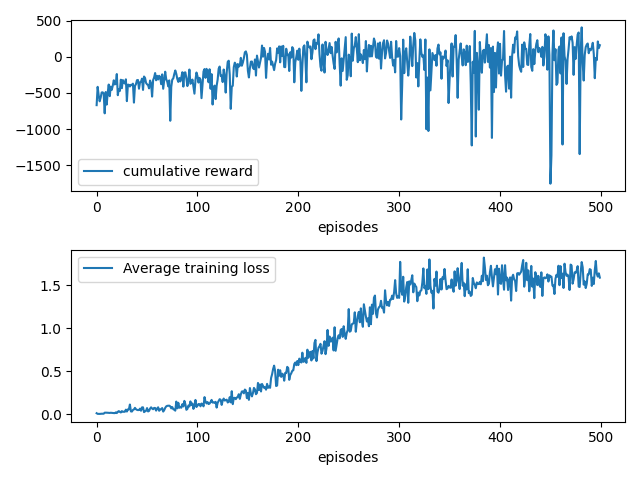
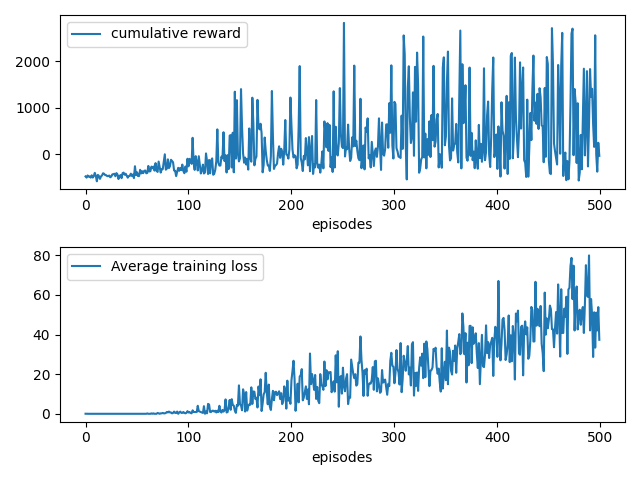
our majesty decided to eat !

diff --git a/gym-ants/gym_ants/helpers/Instance.py b/gym-ants/gym_ants/helpers/Instance.py
@@ -5,6 +5,7 @@ from gym_ants.environment.Obstacle import Obstacle
 import random
 import numpy as np
 import pygame as pg
+from gym_ants.helpers.util import aColideWithB,lineColideWithCircle,calcDistanceBetweenTwoPoint,calcAngle
 
 from copy import deepcopy
 
@@ -113,7 +114,8 @@ class Instance(object):
             if fourmi.health > 0:
                 # food = self.dish.grasses + self.deadBodies
                 food = self.dish.grasses
-                fourmi.eat(food)
+                # fourmi.eat(food)
+                fourmi.carryFood(food)
                 for antHill in self.dish.antHills:
                     if antHill.colonieId == fourmi.colonieId:
                         fourmiAntHill = antHill
@@ -198,6 +200,21 @@ class Instance(object):
 
         return [-1,-1]
 
+    def getQueenCoordinate(self,cell):
+        queen = self.getQueen(cell)
+        return queen.coordinate
+
+
+
+    def getQueenDistance(self,cell,):
+        minDist = np.sqrt(self.maxX ** 2 + self.maxY ** 2)
+        queen = self.getQueen(cell)
+        return calcDistanceBetweenTwoPoint(cell.coordinate,queen.coordinate)
+
+
+        return minDist
+
+
     def closestFood(self,cell):
         minDist = np.sqrt(self.maxX**2 + self.maxY**2)
         if len(cell.objectInVisionDistance)>0:
@@ -225,15 +242,30 @@ class Instance(object):
 
         return -self.closestFood(cell)/minDist
 
+    def getQueen(self,cell):
+        for fourmi in self.fourmis:
+            if fourmi.colonieId == cell.colonieId and fourmi.type == FourmiType.REINE:
+                return fourmi
+
+    def getQueenReward(self,cell):
+        queen = self.getQueen(cell)
+        if queen.hasEaten:
+            return 200
+        else:
+            return 0
+
     def _get_reward(self, cell):
         minDist = np.sqrt(self.maxX ** 2 + self.maxY ** 2)
         eaten = 0
+        distanceQueenReward = 0
+        if cell.foodCarried!=None:
+            distanceQueenReward = self.getQueenDistance(cell)/minDist
         if cell.hasEaten:
-            eaten=  10
+            eaten =  50
         hit = 0
         if cell.isHit:
             hit = -1
-        reward = eaten + hit +self.calcDistanceReward(cell)
+        reward = eaten + hit + self.getQueenReward(cell) + distanceQueenReward + self.calcDistanceReward(cell)
         return reward
 
 
@@ -294,6 +326,9 @@ class Instance(object):
         obstacleCoordinate = self.getClosestObstacleCoordinate(cell)
         # return np.array([cell.coordinate[0], cell.coordinate[1], cell.health, self.closestFood(cell), self.closestObstacle(cell), self.closestEnemy(cell)])
         closestFoodCoordinate = self.getClosestFoodCoordinate(cell)
+        foodDistance = self.closestFood(cell)
+        queenCoordinate = self.getQueenCoordinate(cell)
+        queenDistance = self.getQueenDistance(cell)/np.sqrt(self.maxX ** 2 + self.maxY ** 2)
 
         enemyCoordinate = self.getClosestEnnemyCoordinate(cell)
         enemyDistance = self.closestEnemy(cell)/minDist
@@ -325,11 +360,28 @@ class Instance(object):
         else:
             hautEnemy = 0
 
+        if queenCoordinate[0] > cell.coordinate[0] +10:
+            droiteQueen=1
+        elif queenCoordinate[0] < cell.coordinate[0] -10:
+            droiteQueen = -1
+        else:
+            droiteQueen = 0
+
+        if queenCoordinate[1]> cell.coordinate[1]+10:
+            hautQueen = 1
+        elif queenCoordinate[1] < cell.coordinate[1] - 10:
+            hautQueen = -1
+        else:
+            hautQueen = 0
+
+        carryingFood = -1
+        if cell.foodCarried != None:
+            carryingFood = 1
 
 
         # return np.array([cell.coordinate[0], cell.coordinate[1],closestFoodCoordinate[0],closestFoodCoordinate[1]])
 
-        return np.array([droite,haut,droiteEnemy,hautEnemy,enemyDistance])
+        return np.array([droite,haut,hautQueen,droiteQueen,queenDistance,carryingFood])
 
 
 

diff --git a/gym-ants/gym_ants/species/Fourmi.py b/gym-ants/gym_ants/species/Fourmi.py
@@ -1,3 +1,5 @@
+import copy
+
 import numpy as np
 import pygame as pg
 from enum import Enum
@@ -124,8 +126,9 @@ class Fourmi(Species):
         for grass in grasses:
             C = grass.coordinate
             distance = calcDistanceBetweenTwoPoint(C, E)
-            self.objectInVisionRange.append(grass)
-            self.objectInVisionDistance.append(distance)
+            if not grass.isCarried:
+                self.objectInVisionRange.append(grass)
+                self.objectInVisionDistance.append(distance)
         for fourmi in fourmis:
             if fourmi.colonieId != self.colonieId:
                 C = fourmi.coordinate
@@ -173,22 +176,24 @@ class Fourmi(Species):
     def QeenEat(self, foods, anthill,fourmis):
         self.hasEaten = False
         if self.type == FourmiType.REINE:
-            for food in foods:
-                if aColideWithB(self.coordinate[0], self.coordinate[1],anthill.radius , food.coordinate[0],
-                                food.coordinate[1]) and self.hungriness > self.hungrinessThreshold :
-                    food.eaten()
-                    self.hasEaten = True
-                    self.health += self.bonusHealth
-                    self.death_age += self.bonusHealth
-                    self.nbAte += 1
-                    self.hungriness = 0
-                    for fourmi in fourmis:
-                        if fourmi.isEgg and fourmi.colonieId == self.colonieId:
-                            fourmi.hasEaten = True
-                            fourmi.health += fourmi.bonusHealth
-                            fourmi.death_age += fourmi.bonusHealth
-                            fourmi.nbAte += 1
-                            fourmi.hungriness = 0
+            for fourmi in fourmis:
+                if fourmi.foodCarried != None:
+                    if aColideWithB(self.coordinate[0], self.coordinate[1],anthill.radius , fourmi.foodCarried.coordinate[0],
+                                fourmi.foodCarried.coordinate[1]) :
+                        fourmi.foodCarried.eaten()
+                        fourmi.foodCarried = None
+                        self.hasEaten = True
+                        self.health += self.bonusHealth
+                        self.death_age += self.bonusHealth
+                        self.nbAte += 1
+                        self.hungriness = 0
+                    # for fourmi in fourmis:
+                    #     if fourmi.isEgg and fourmi.colonieId == self.colonieId:
+                    #         fourmi.hasEaten = True
+                    #         fourmi.health += fourmi.bonusHealth
+                    #         fourmi.death_age += fourmi.bonusHealth
+                    #         fourmi.nbAte += 1
+                    #         fourmi.hungriness = 0
 
         if not self.hasEaten:
             self.hungriness += 1
@@ -203,12 +208,19 @@ class Fourmi(Species):
 
 
     def carryFood(self, foods):
+        self.hasEaten = False
+        if self.foodCarried!=None:
+            self.foodCarried.coordinate = copy.deepcopy(self.coordinate)
+        if self.foodCarried!=None and self.foodCarried.isEaten:
+            self.foodCarried.isEaten = False
+            self.foodCarried = None
         for food in foods:
             if self.foodCarried!=None:
                 break
             if aColideWithB(self.coordinate[0], self.coordinate[1], self.radius, food.coordinate[0],
-                            food.coordinate[1]) :
+                            food.coordinate[1]) and not food.isCarried:
                 self.foodCarried = food
+                self.hasEaten = True
                 food.carried(self.coordinate[0],self.coordinate[1])
 
 

diff --git a/main_DQN.py b/main_DQN.py
@@ -158,7 +158,7 @@ def run(batch_size, gamma, buffer_size, seed, tau, training_interval, learning_r
     set_random_seed(environment, seed)
 
 
-    model = NNModel(5, 4)
+    model = NNModel(6, 4)
     nb_trajectories = 500
 
 
@@ -180,14 +180,16 @@ def run(batch_size, gamma, buffer_size, seed, tau, training_interval, learning_r
         step_count = 1
         mean_loss = []
         while not trajectory_done and step_count <600:
-            #environment.render()
+            environment.render()
             actions = []
             for s in states:
                 q_vals =target_agent.predict_on_batch(s.astype(np.float32)) 
                 actions.append(target_agent.get_action(q_vals, epsilon))
             next_states, rewards, trajectory_done, _ = environment.step(actions)
             G += np.sum(rewards)
-            for (s, a, r, next_s) in zip(states, actions, rewards, next_states):
+            actions = actions[1:]
+            rewards = rewards[1:]
+            for (s, a, r, next_s) in zip(states[1:,:], actions, rewards, next_states[1:,:]):
                 replay_buffer.store((s.astype(np.float32)  , a, r, next_s.astype(np.float32)  , trajectory_done))
 
             if len(replay_buffer.data) > batch_size :
@@ -209,7 +211,7 @@ def run(batch_size, gamma, buffer_size, seed, tau, training_interval, learning_r
             print(f"After {n_trajectories} trajectories, we have G_0 = {G:.2f}, loss {loss_mean}, epsilon  {epsilon:4f}")
         
 
-        epsilon = max(0.99*epsilon, 0.01)
+        epsilon = max(0.995*epsilon, 0.01)
         R_trajectories[n_trajectories] = G
         avg_training_loss[n_trajectories] = np.mean(np.array(mean_loss))
 

diff --git a/gym-ants/gym_ants/environment/Grass.py b/gym-ants/gym_ants/environment/Grass.py
@@ -1,6 +1,6 @@
 import pygame as pg
 import numpy as np
-
+import random
 class Grass:
     def __init__(self,x,y,radius,maxX,maxY):
         self.coordinate = np.array([x,y])
@@ -12,8 +12,23 @@ class Grass:
         self.color=pg.Color(0,255,0)
 
     def eaten(self):
-        self.isEaten = True
+        self.isEaten = False
         self.isCarried = False
+        r = random.random()
+        if r > 0.5:
+            r = random.random()
+            self.coordinate[0] = random.randint(0, self.maxX)
+            if r > 0.5:
+                self.coordinate[1] = random.randint(0, 100)
+            else:
+                self.coordinate[1] = random.randint(self.maxY - 100, self.maxY)
+        else:
+            r = random.random()
+            self.coordinate[1] = random.randint(0, self.maxY)
+            if r > 0.5:
+                self.coordinate[0] = random.randint(0, 100)
+            else:
+                self.coordinate[0] = random.randint(self.maxX - 100, self.maxX)
 
     def carried(self,x,y):
         self.isCarried = True

diff --git a/gym-ants/gym_ants/species/FourmieCreator.py b/gym-ants/gym_ants/species/FourmieCreator.py
@@ -27,7 +27,7 @@ class FourmieCreator(SpeciesCreator):
     def create(self,parent=None) :
 
         if (self.firstFourmiInColonie and parent == None):
-            type = FourmiType.OUVRIERE
+            type = FourmiType.REINE
             parent = None
         else :
             type = FourmiType.OUVRIERE
@@ -82,8 +82,8 @@ class FourmieCreator(SpeciesCreator):
             angle = 12
             dx = np.cos(angle)
             dy = np.sin(angle)
-            x = self.maxX -300+ random.randint(-100,100)
-            y = self.maxY -300+ random.randint(-100,100)
+            x = self.maxX/2 + random.randint(-100,100)
+            y = self.maxY/2+ random.randint(-100,100)
             r = parent.r
             g = parent.g
             b = parent.b

diff --git a/gym-ants/gym_ants/config/AntsEnvConfig.py b/gym-ants/gym_ants/config/AntsEnvConfig.py
@@ -1,6 +1,6 @@
 import numpy as np
 
-SCREEN_SIZE_X = 1200
+SCREEN_SIZE_X = 1000
 SCREEN_SIZE_Y = 1000
 
 nbHerbivore = 0
@@ -19,8 +19,8 @@ carnivoreReproductionThreshold=3
 carnivoreHungrinessThreshold=25
 
 
-nbFourmiPerColonie = 2
-nbFourmiColonie =2
+nbFourmiPerColonie = 3
+nbFourmiColonie =1
 
 timeInEggForm = 500
 fourmiInitRadius=20

diff --git a/gym-ants/gym_ants/environment/AntHill.py b/gym-ants/gym_ants/environment/AntHill.py
@@ -6,7 +6,7 @@ class AntHill:
 
     def __init__(self, left, top,colonieId, colonieColor) :
         self.center = np.array([left,top],dtype=float)
-        self.radius = 100
+        self.radius = 300
         self.colonieId = colonieId
         self.color = self.GetColor(colonieColor)
 
